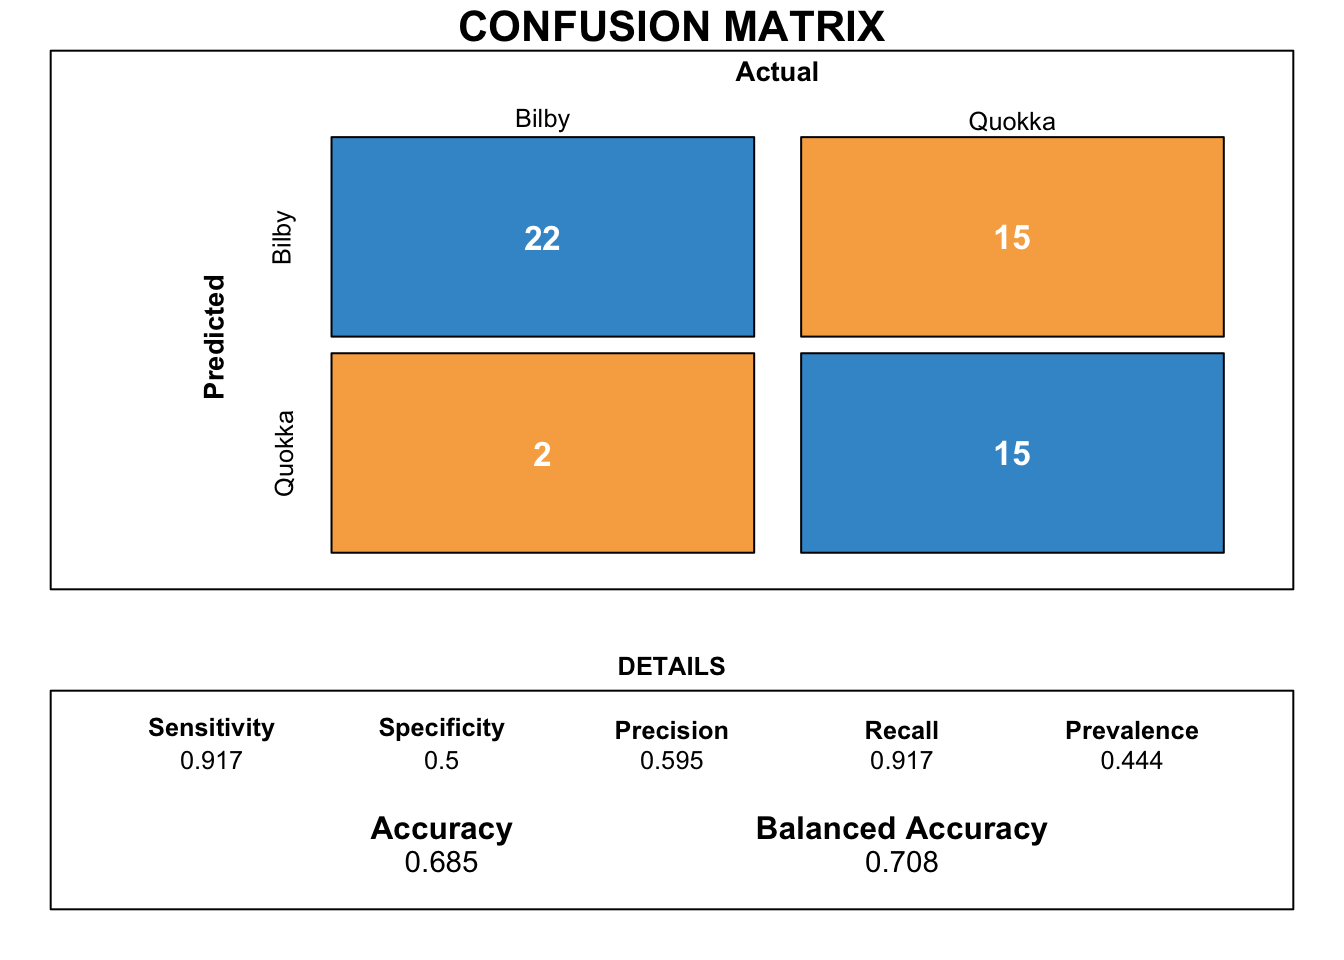
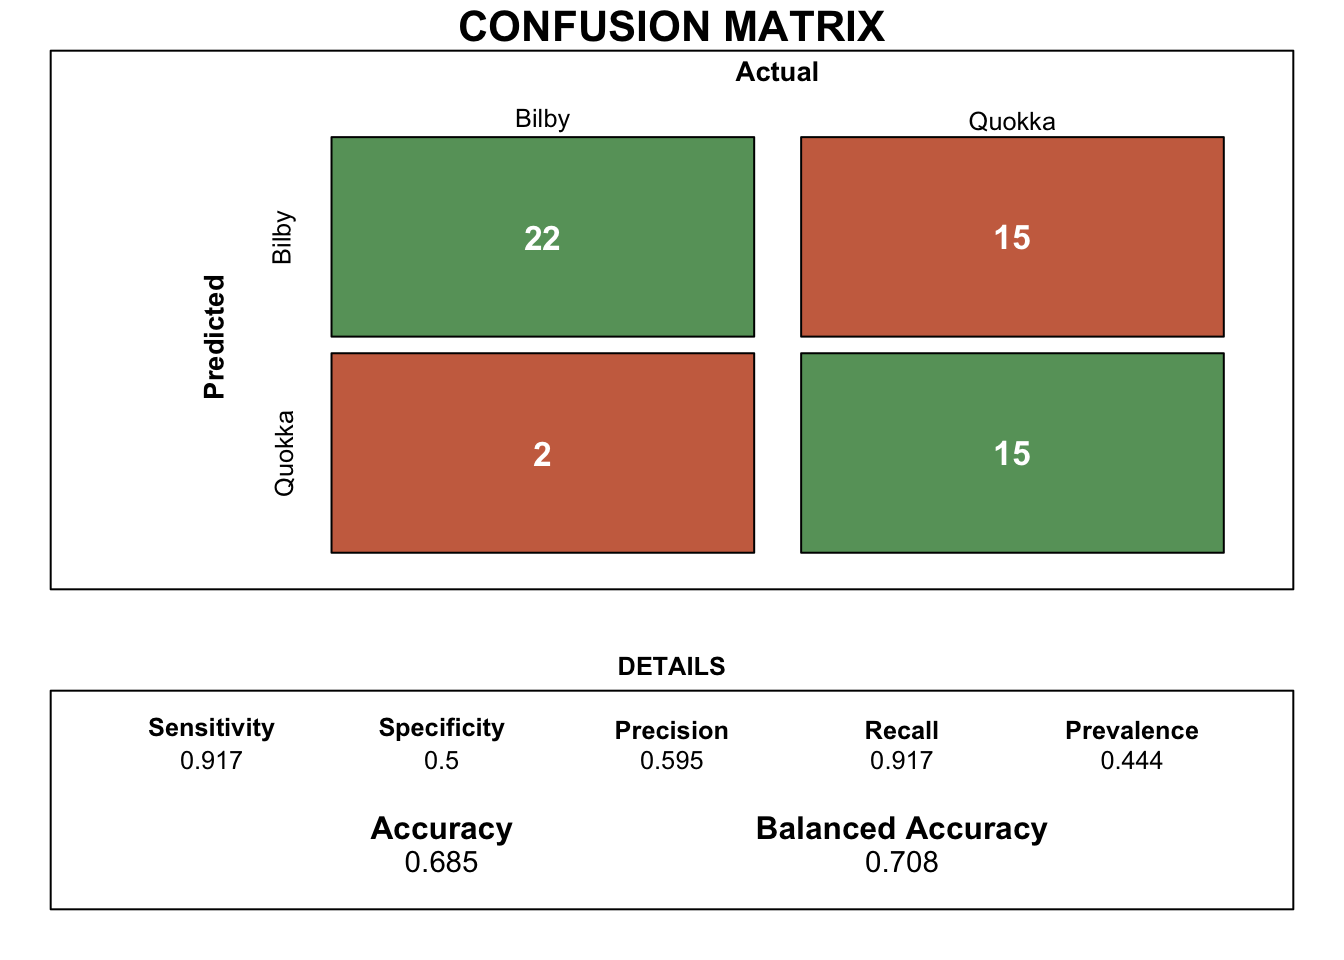
Explanation for ROC added and changes to color scheme of confusion matrix implemented

Changed region(s): [[0.5938, 0.125, 0.9375, 0.5938], [0.25, 0.125, 0.5625, 0.5938]]

diff --git a/assign01_ArindomBaruah_32779267/assign01-submission.html b/assign01_ArindomBaruah_32779267/assign01-submission.html
@@ -299,9 +299,18 @@ Key takeaway
 </div>
 </div>
 </div>
-<div class="cell">
-<div class="cell-output-display">
-<p><img src="assign01-submission_Arindom_32779267_files/figure-html/unnamed-chunk-19-1.png" class="img-fluid" width="672"></p>
+<div class="callout callout-style-default callout-note callout-titled">
+<div class="callout-header d-flex align-content-center">
+<div class="callout-icon-container">
+<i class="callout-icon"></i>
+</div>
+<div class="callout-title-container flex-fill">
+Key takeaway
+</div>
+</div>
+<div class="callout-body-container callout-body">
+<p>As we can observe from <a href="#fig-roc">Figure&nbsp;7</a>, the area under the curve (AUC) covered by the ROC of <strong>model 1 is larger when in comparison to model 2</strong>. This indicates that the <strong>model 1 is performing better than the results obtained through model 2</strong>.</p>
+<p>The higher the curve is to the top left point of the plot, the higher the true positive rate of the model (measured through sensitivity) as well as the least false positive rate (measured through 1-specificity).</p>
 </div>
 </div>
 <section id="visualisation-8pts" class="level4">
